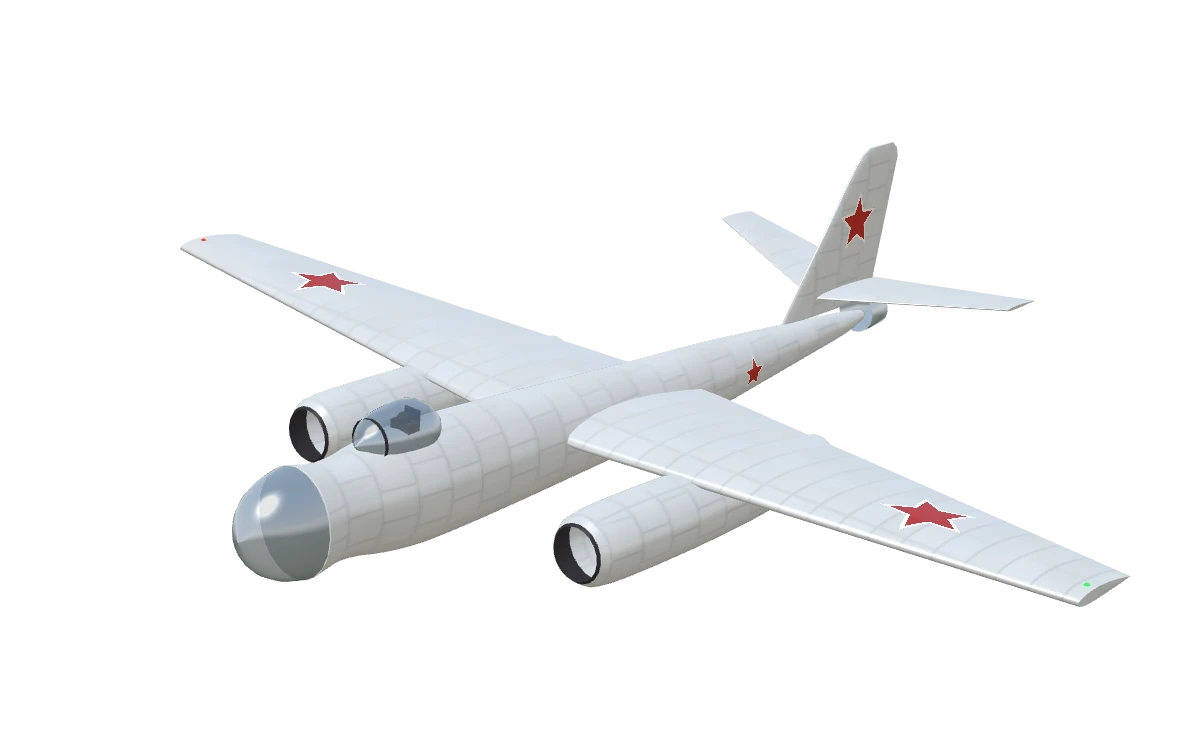
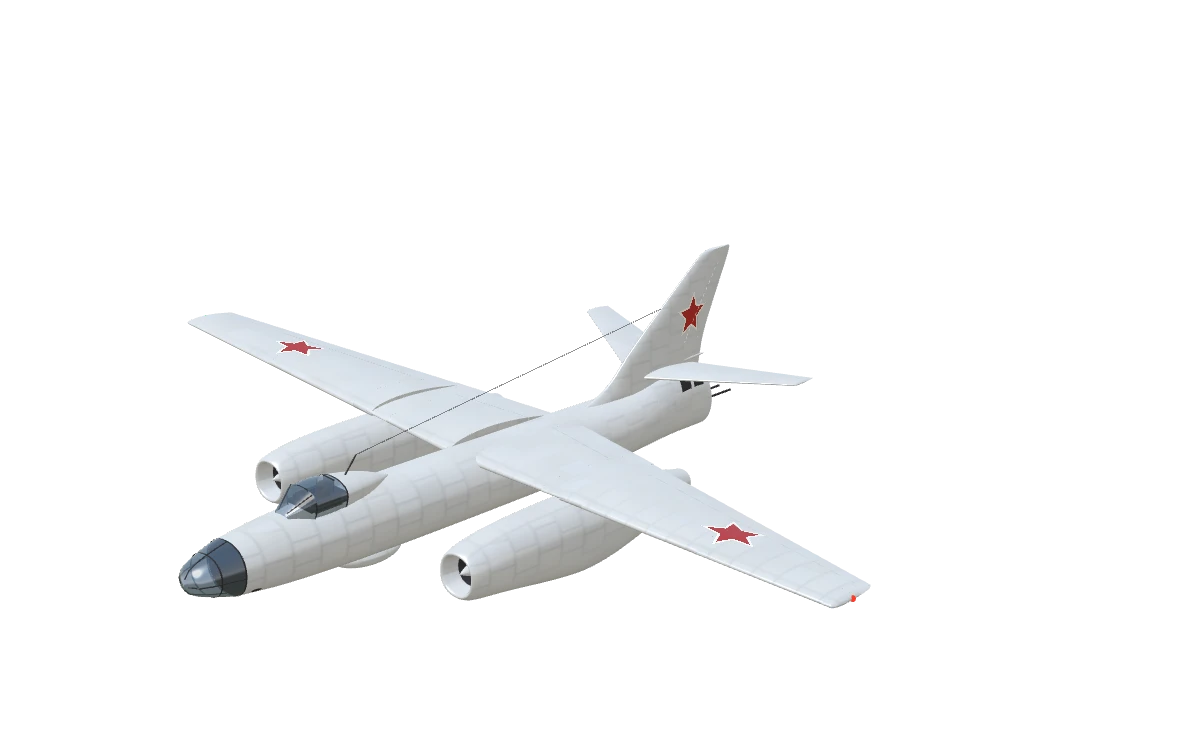
Il-28 ayrıntılı model: çizimden gövde, camlı nişancı burnu, derin VK-1 naselleri, ok kuyruk, nişancı kabini
- Karında radar kubbesi, anten direği ve teli, kabinde pencereler ve iki 23 mm top
- Ana takım öne katlanır (main.fore); iç ve dış flap, hareketli kumanda yüzeyleri, ışıklar
- glassFrames: camlı burun çerçeveleri ortak (Ar 234 de); kullanılmayan jetPod kalktı
- gearHeight çizime göre; ansiklopedi görselleri yenilendi; CLAUDE.md güncel

Changed region(s): [[0.1542, 0.184, 0.9558, 0.828]]

diff --git a/src/render/models.ts b/src/render/models.ts
@@ -21,7 +21,7 @@ type Geo = THREE.BufferGeometry;
 let DETAIL = 1;
 /** Yüksek ayrıntıda ek çözünürlük çarpanı (videosu çekilen uçaklarda daha çok kenar ve profil noktası). */
 let RES = 1;
-const HIRES: Record<string, number> = { mig15: 2.4, sabre: 1.6, f84: 1.6, p80: 1.6, me262: 1.6, meteor: 1.6, vampire: 1.6, he162: 1.6, ar234: 1.5, canberra: 1.5 };
+const HIRES: Record<string, number> = { mig15: 2.4, sabre: 1.6, f84: 1.6, p80: 1.6, me262: 1.6, meteor: 1.6, vampire: 1.6, he162: 1.6, ar234: 1.5, canberra: 1.5, il28: 1.5 };
 /** Dönel parçaların kenar sayısı ayrıntıya göre. */
 const sg = (n: number) => (DETAIL ? Math.round(n * 2.25 * RES) : n);
 
@@ -985,6 +985,23 @@ function sideIntake(x: number, secs: JetSec[], duct: JetSec[], rake: number, z0:
 }
 
 /**
+ * Camlı burnun çerçeveleri: yüzeyde boyuna ince çubuklar (zs istasyonları boyunca; yanlarda, üstte, altta) ve enine halkalar.
+ */
+function glassFrames(g: JetHull, zs: number[], bands: number[]): Geo[] {
+  const line = (a: number, sd: number) => zs.slice(1).map((z, i) => {
+    const p = g.pt(zs[i], a, 0.006, sd);
+    const q = g.pt(z, a, 0.006, sd);
+    return tag(rod(new THREE.Vector3(...p), new THREE.Vector3(...q), 0.014, 4), 'dark');
+  });
+  const band = (z: number) => {
+    const q = g.at(z);
+    const grow = (zz: number): JetSec => [zz, q[1] + 0.01, q[2] + 0.01, q[3] - 0.01, q[4]];
+    return tag(new JetHull([grow(z + 0.02), grow(z - 0.02)], 2.2, false).geo(14), 'dark');
+  };
+  return [...bands.map(band), ...line(0, 1), ...line(0, -1), ...line(Math.PI / 2, 1), ...line(-Math.PI / 2, 1)];
+}
+
+/**
  * Damla kanopi: öndeki köşeli ön cam, sürgülü kapağın kavisli camı, arkasında gövdeye inen metal bitiş. Çerçeveler
  * (ön cam dikmeleri ve kavisi, kapakta verilen z'ler) koyu, cam kesitinin biraz dışında. Pilot ve gösterge paneli
  * cached()'te canopySink'teki kayda göre yerleşir.
@@ -1024,8 +1041,8 @@ function gearDoor(x: number, yTop: number, yBot: number, z: number, w: number, r
 }
 
 interface JetGearOpts {
-  /** Ana bacak: x, z, üst ucu (menteşe) y, aks y, tekerlek yarıçapı ve genişliği, tekerleğin bacağa göre içe kayması; out: dışa katlanır. */
-  main: { out?: boolean; x: number; z: number; top: number; axle: number; rw: number; tw: number; dx: number; door: { dx: number; top: number; bot: number; w: number; r: number } };
+  /** Ana bacak: x, z, üst ucu (menteşe) y, aks y, tekerlek yarıçapı ve genişliği, tekerleğin bacağa göre içe kayması; out: dışa, fore: öne katlanır. */
+  main: { out?: boolean; fore?: boolean; x: number; z: number; top: number; axle: number; rw: number; tw: number; dx: number; door: { dx: number; top: number; bot: number; w: number; r: number } };
   /** Burun bacağı: menteşe (üst uç) y ve z, aks y ve z, tekerlek; öne bakan küçük kapak (varsa). */
   nose: { topY: number; topZ: number; axle: number; z: number; rw: number; tw: number; twin?: number; door?: { top: number; bot: number; w: number } };
   /** Burun takımı yuvasının boyuna iki kapağı: menteşe x'i ve y'si, z aralığı, yükseklik. */
@@ -1054,7 +1071,7 @@ function jetGear(o: JetGearOpts): Geo[] {
       ...wheelParts(m.rw, m.tw, x - s * m.dx, m.axle, m.z),
     ];
     const door = gearDoor(x + s * m.door.dx, m.door.top, m.door.bot, m.z, m.door.w, m.door.r);
-    out.push(...joint(s > 0 ? 'takimL' : 'takimR', [x, m.top, m.z], [...parts.map((g) => tag(g, 'dark')), door], false, [0, 0, m.out ? -1 : 1]));
+    out.push(...joint(s > 0 ? 'takimL' : 'takimR', [x, m.top, m.z], [...parts.map((g) => tag(g, 'dark')), door], false, m.fore ? [s, 0, 0] : [0, 0, m.out ? -1 : 1]));
   }
   // Burun bacağı: üst ucu arkada, tekerlek önde (eğik); menteşe ekseni −x: pozitif açı tekerleği arkaya toplar
   const top = v(0, n.topY, n.topZ);
@@ -1166,6 +1183,15 @@ function canberraGear(gh: number): Geo[] {
   });
 }
 
+/** Il-28 takımı: yüksek duruş; ana bacaklar nasel altından iner ve öne toplanır, büyük lastikler; uzun tek burun bacağı. */
+function beagleGear(gh: number): Geo[] {
+  return jetGear({
+    main: { fore: true, x: 3.21, z: -0.22, top: -1.05, axle: -gh + 0.62, rw: 0.62, tw: 0.26, dx: -0.3, door: { dx: -0.16, top: -1.2, bot: -1.72, w: 0.6, r: 0.12 } },
+    nose: { topY: -0.76, topZ: 6.7, axle: -gh + 0.37, z: 6.82, rw: 0.37, tw: 0.18, door: { top: -0.85, bot: -1.5, w: 0.45 } },
+    belly: { x: 0.3, y: -0.76, z0: 6.6, z1: 5.4, h: 0.3 },
+  });
+}
+
 /**
  * Kanopi: gövde üstünde yarı gömülü damla. Çerçeve: ön cam kenarında ince koyu bant; kabarcık olmayan (çerçeveli)
  * kanopide ortada ve arkada da birer bant.
@@ -1225,10 +1251,6 @@ function nacelle(x: number, y: number, zFront: number, len: number, r: number, b
     ? [[zFront + 0.45, 0], [zFront + 0.3, r * 0.3], [zFront, r * 0.6], [zFront - 0.1, r * 0.95], [zFront - len * 0.3, r], [zFront - len, r * 0.25]]
     : [[zFront + 0.45, 0], [zFront + 0.28, r * 0.42], [zFront, r * 0.78], [zFront - len * 0.3, r], [zFront - len, r * 0.25]];
   return body(prof, 8, { x, y, smooth: true });
-}
-
-function jetPod(x: number, y: number, zFront: number, len: number, r: number): Geo {
-  return body([[zFront, r * 0.75], [zFront - 0.3, r], [zFront - len * 0.6, r * 0.95], [zFront - len, r * 0.6]], 9, { x, y, smooth: true });
 }
 
 /** Sabit tekerlek kaportası (spat) + bacak. */
@@ -2475,32 +2497,13 @@ function defineModel(key: string): ModelDef {
           tag(body([[-2.0, 0.001], [-1.85, 0.05], [-1.6, 0.09], [-1.3, 0.08]], 8, { ...o, smooth: true }), 'dark'),
         ];
       };
-      // Camın dış yüzeyine oturan ince çerçeve: z aralığında a açısı boyunca kısa çubuklar
-      const glassLine = (a0: number, s0: number): Geo[] => {
-        const zs = [5.36, 5.28, 5.1, 4.8, 4.4, 3.9, 3.42];
-        return zs.slice(1).map((z, i) => {
-          const p = GL.pt(zs[i], a0, 0.006, s0);
-          const q = GL.pt(z, a0, 0.006, s0);
-          return tag(rod(new THREE.Vector3(...p), new THREE.Vector3(...q), 0.014, 4), 'dark');
-        });
-      };
-      const glassBand = (z: number) => {
-        const q = GL.at(z);
-        const grow = (zz: number): JetSec => [zz, q[1] + 0.01, q[2] + 0.01, q[3] - 0.01, q[4]];
-        return tag(new JetHull([grow(z + 0.02), grow(z - 0.02)], 2.2, false).geo(14), 'dark');
-      };
       canopySink.push({ z: 4.0, len: 1.6, h: 0.5, y: 0.12, w: 0.5, bubble: false });
       return {
         solids: [
           tag(GL.geo(14), 'glass'),
           H.geo(14),
           tag(H.disc(3.39, 1, 14), 'dark'),
-          glassBand(3.42),
-          glassBand(4.35),
-          ...glassLine(0, 1),
-          ...glassLine(0, -1),
-          ...glassLine(Math.PI / 2, 1),
-          ...glassLine(-Math.PI / 2, 1),
+          ...glassFrames(GL, [5.36, 5.28, 5.1, 4.8, 4.4, 3.9, 3.42], [3.42, 4.35]),
           // Tepedeki periskop
           tag(new THREE.CylinderGeometry(0.035, 0.05, 0.5, sg(6)).translate(0, 0.72, 4.46), 'dark'),
           tag(new THREE.SphereGeometry(0.05, sg(5), sg(3)).scale(1, 1.4, 1).translate(0, 0.99, 4.46), 'dark'),
@@ -2522,24 +2525,87 @@ function defineModel(key: string): ModelDef {
         ],
       };
     }
-    case 'il28':
+    case 'il28': {
+      // Il-28, boyutlar gerçek ölçülerde, biçim üç görünüş çiziminden. Silindirik gövde, ucunda camlı nişancı burnu,
+      // karnında radar kubbesi, önde damla kanopi ve anten direği. Kanat düz hücum kenarlı ve omuzda; altında derin
+      // VK-1 naselleri: yuvarlak giriş, ortada göbek ve dikey ayırıcı, altta ana takım bölmesi. Ok açılı kuyruk, arkada
+      // pencereli nişancı kabini ve iki 23 mm top.
+      const FRONT: JetSec[] = [[9.0, 0.01, -0.03, -0.07, -0.05], [8.95, 0.17, 0.1, -0.2, -0.05], [8.82, 0.42, 0.31, -0.33, -0.03], [8.18, 0.6, 0.54, -0.54, 0], [7.85, 0.67, 0.62, -0.62, 0]];
+      const GL = new JetHull(FRONT, 2.2);
+      const H = new JetHull([
+        [7.85, 0.67, 0.62, -0.62, 0], [6.42, 0.81, 0.82, -0.78, 0.02], [3.32, 0.87, 0.88, -0.88, 0], [-3.44, 0.87, 0.82, -0.88, -0.03], [-5.27, 0.8, 0.8, -0.81, -0.05], [-6.82, 0.56, 1.08, -0.78, -0.1],
+        [-8.2, 0.52, 1.14, -0.8, -0.1], [-8.42, 0.48, 0.5, -0.8, -0.14], [-8.6, 0.3, 0.3, -0.56, -0.12], [-8.66, 0.04, 0.0, -0.22, -0.11],
+      ], 2.2);
+      const Wi: WingOpts = { x0: 0.4, z: 0.93, root: 3.85, y: 0.66, tipX: 3.4, tip: 3.2, sweep: 0, dihedral: 2, t: 0.52 };
+      const W: WingOpts = { x0: 3.9, z: 0.93, root: 3.07, y: 0.77, tipX: 10.72, tip: 1.5, sweep: 0, dihedral: 2, t: 0.4 };
+      const T: WingOpts = { x0: 0.26, z: -5.55, root: 2.04, y: 1.24, tipX: 3.6, tip: 0.89, sweep: 2.04, dihedral: 6, t: 0.2 };
+      const tipY = W.y + (W.tipX - W.x0) * tanD(W.dihedral);
+      const NX = 3.21;
+      const pod = new JetHull([
+        [3.7, 0.38, 0.2, -0.56, -0.18], [4.1, 0.42, 0.24, -0.6, -0.18], [4.17, 0.47, 0.3, -0.66, -0.18], [4.14, 0.52, 0.36, -0.72, -0.18], [3.9, 0.58, 0.46, -0.82, -0.18], [2.97, 0.66, 0.62, -0.92, -0.15],
+        [0.93, 0.7, 0.68, -1.28, -0.1], [-0.3, 0.7, 0.64, -1.36, -0.1], [-2.03, 0.6, 0.52, -0.98, -0.1], [-3.6, 0.31, 0.17, -0.47, -0.15], [-3.69, 0.3, 0.16, -0.46, -0.15],
+      ], 2.25);
+      const duct = new JetHull([[3.1, 0.35, 0.16, -0.52, -0.18], [3.72, 0.375, 0.195, -0.555, -0.18]], 2.1, false);
+      const pipe = new JetHull([[-3.68, 0.27, 0.13, -0.43, -0.15], [-3.2, 0.25, 0.11, -0.41, -0.15]], 2.05, false);
+      const nacelle = (sd: number): Geo[] => {
+        const x = sd * NX;
+        return [
+          pod.geo(13).translate(x, 0, 0),
+          tag(duct.geo(12).translate(x, 0, 0), 'dark'),
+          tag(duct.disc(3.1, 1, 12).translate(x, 0, 0), 'dark'),
+          body([[4.05, 0.001], [3.9, 0.08], [3.6, 0.17], [3.1, 0.19]], 8, { x, y: -0.18, smooth: true }),
+          new THREE.BoxGeometry(0.05, 0.72, 0.5).translate(x, -0.18, 3.4),
+          tag(pipe.geo(12).translate(x, 0, 0), 'dark'),
+          tag(pipe.disc(-3.2, -1, 12).translate(x, 0, 0), 'dark'),
+          tag(new THREE.ConeGeometry(0.12, 0.3, sg(8)).rotateX(-Math.PI / 2).translate(x, -0.15, -3.35), 'dark'),
+        ];
+      };
       return {
         solids: [
-          glassNose(7.9, 0.85, 1.2, 1.15),
-          fuselage({ noseZ: 7.9, tailZ: -7.8, r: 0.95, sy: 1.15, noseR: 0.9, peak: 0.2, rise: 0.3 }),
-          canopy(5.6, 2.0, 0.55, 1.0, 0.55, true),
-          // Kuyruk taret kabini
-          tag(body([[-7.6, 0.42], [-8.2, 0.38], [-8.6, 0]], 7, { y: 0.1 + tailLift(-7.9) }), 'glass'),
-          ...wing({ x0: 1.0, z: 2.2, root: 4.0, y: 0.2, tipX: 10.72, tip: 1.6, sweep: 0.8, dihedral: 2, t: 0.5 }),
-          // Kanat altında, hücum kenarının önüne uzanan motor naselleri
-          ...mirror(3.25, (x) => jetPod(x, -0.35, 4.6, 6.6, 0.7)),
-          ...mirror(3.25, (x) => tag(body([[4.65, 0.48], [4.5, 0.58], [4.1, 0.62]], 9, { x, y: -0.35 }), 'dark')),
-          // Ok açılı kuyruk
-          ...fins({ y0: 0.7, z0: -5.0, h: 3.0, root: 3.0, tip: 1.3, sweep: 2.2, t: 0.18 }),
-          ...wing({ x0: 0.1, z: -6.0, root: 2.2, y: 0.8, tipX: 3.6, tip: 1.0, sweep: 1.5, dihedral: 7, t: 0.15 }),
+          tag(GL.geo(14), 'glass'),
+          H.geo(14),
+          tag(H.disc(7.85, 1, 14), 'dark'),
+          ...glassFrames(GL, [8.96, 8.84, 8.6, 8.3, 7.87], [7.87, 8.4]),
+          ...[1, -1].map((sd) => portAt(sd * H.sideX(7.5, -0.42), -0.42, 7.5, 0.035, 0.16)),
+          // Karındaki radar kubbesi
+          new THREE.SphereGeometry(1, sg(12), sg(7)).scale(0.56, 0.3, 1.0).translate(0, -0.84, 3.9),
+          tag(H.patch(1, 5.75, 4.98, Math.PI / 2 - 0.45, Math.PI / 2 + 0.45, 0.006), 'dark'),
+          ...jetCanopy({
+            screen: [[6.39, 0.22, 0.85, 0.4, 0.8], [5.83, 0.5, 1.29, 0.4, 0.95]],
+            glass: [[5.83, 0.5, 1.29, 0.4, 0.95], [5.44, 0.55, 1.35, 0.4, 1.0], [4.94, 0.52, 1.29, 0.4, 1.0]],
+            aft: [[4.96, 0.53, 1.3, 0.4, 1.0], [4.03, 0.38, 1.16, 0.4, 0.98], [3.3, 0.02, 0.89, 0.6, 0.86]],
+            frames: [5.83, 4.96],
+            posts: [[0.14, 0.86, 6.36], [0.36, 1.24, 5.85]],
+            pilot: { z: 5.35, len: 1.6, h: 0.45, y: 0.98, w: 0.5 },
+          }),
+          // Anten direği ve kuyruğa uzanan tel
+          tag(rod(new THREE.Vector3(0, 1.2, 4.62), new THREE.Vector3(0, 1.65, 4.28), 0.018, 4), 'dark'),
+          tag(rod(new THREE.Vector3(0, 1.65, 4.28), new THREE.Vector3(0, 2.95, -6.4), 0.006, 3), 'dark'),
+          // İç kanat ve dış kanat ayrı flaplı; uç köşeleri yuvarlak
+          ...controlWing(Wi, 0.72, [[0, 0.75, 'flap'], [0.75, 1, null]]),
+          ...controlWing(W, 0.78, [[-0.1, 0, null], [0, 0.48, 'flapD'], [0.48, 0.49, null], [0.49, 0.97, 'aileron'], [0.97, 1, null]], 1.2),
+          ...nacelle(1),
+          ...nacelle(-1),
+          ...controlWing(T, 0.66, [[0, 0.96, 'elevator'], [0.96, 1, null]], 1),
+          ...jetFin([[0.82, -3.58, 4.64], [1.16, -4.42, 3.83], [1.86, -5.06, 3.25], [2.95, -6.35, 2.35], [3.8, -7.38, 1.64], [4.19, -7.87, 1.27], [4.26, -8.16, 0.91]], 0.3, 0.72, 2, 4),
+          body([[-4.92, 0.01], [-5.4, 0.1], [-7.6, 0.1], [-8.44, 0.01]], 8, { y: 1.24, sy: 0.8, smooth: true }),
+          // Arkadaki nişancı kabini pencereleri ve iki top
+          ...[1, -1].flatMap((sd) => [
+            tag(H.patch(sd, -7.0, -7.42, 0.55, 1.0, 0.006), 'dark'),
+            tag(H.patch(sd, -7.55, -7.97, 0.55, 1.0, 0.006), 'dark'),
+            tag(rod(new THREE.Vector3(sd * 0.2, -0.08, -8.4), new THREE.Vector3(sd * 0.2, -0.08, -9.6), 0.03, 6), 'dark'),
+          ]),
         ],
         props: [],
+        markZ: -3.4,
+        lights: [
+          { p: [W.tipX + 0.1, tipY, W.z - W.tip * 0.45], kind: 'red' },
+          { p: [-W.tipX - 0.1, tipY, W.z - W.tip * 0.45], kind: 'green' },
+          { p: [0, 3.0, -8.72], kind: 'white' },
+          { p: [2.0, 0.25, 0.6], kind: 'landing' },
+        ],
       };
+    }
     // ================================================================ Sonraki nesil jetler (yer tutucu)
     case 'jetDelta':
       return {
@@ -2811,6 +2877,7 @@ function landingGear(probe: Probe, bb: THREE.Box3, spec: AircraftSpec | undefine
   if (kind === 'he162') return salamanderGear(gearHeight(spec));
   if (kind === 'ar234') return blitzGear(gearHeight(spec));
   if (kind === 'canberra') return canberraGear(gearHeight(spec));
+  if (kind === 'il28') return beagleGear(gearHeight(spec));
   const gh = spec.span > 25 ? 3.4 : spec.engines > 1 ? 2.6 : 1.9;
   const half = bb.max.x;
   const tricycle = !spec.tailDragger;

diff --git a/src/sim/aircraft/flightModel.ts b/src/sim/aircraft/flightModel.ts
@@ -83,6 +83,7 @@ export function gearHeight(spec: AircraftSpec): number {
   if (spec.id === 'he162') return 1.13;
   if (spec.id === 'ar234') return 1.45;
   if (spec.id === 'canberra') return 1.6;
+  if (spec.id === 'il28') return 2.48;
   return spec.span > 25 ? 3.4 : spec.engines > 1 ? 2.6 : 1.9;
 }
 

diff --git a/CLAUDE.md b/CLAUDE.md
@@ -102,11 +102,11 @@ Yerel yönetici anahtarı `.dev.vars` (git dışı).
     - Park eden uçaklar `placeParked`: en yeni yarısı hangar ağzı, T2, çadır hangar, sığınak ve siperlere, kalanı
       aprona. Tür başına InstancedMesh (`models.ts` `parkedParts`).
   - `models.ts`: kodla üretilen parametrik uçaklar. Modelde `+x` sol kanat (burun `+z`, üst `+y`).
-    - F-84 ve F-86 üç görünüş çiziminden kurulur (ölçüler px/m ile çizimden okunur, fotoğrafla karşılaştırılır):
-      `JetHull` kesit listesinden gövde, kanopi ve kanal yapar; `jetCanopy`, `jetFin`, `jetGear`. Yeni uçak için önce
-      Wikimedia Commons'ta "<uçak> 3-view line drawing" ara. Sim'deki `gearHeight` takımla uyuşmalı.
-    - Hareketli parçalar eklemdir; şimdilik MiG-15, F-84 ve F-86'da. Bu uçakları değiştirince ansiklopedi görsellerini
-      de yeniden üret.
+    - Araştırma ağacındaki bütün jetler üç görünüş çiziminden kurulur (ölçüler px/m ile çizimden okunur, fotoğrafla
+      karşılaştırılır): `JetHull` kesit listesinden gövde, kanopi ve kanal yapar; `jetCanopy`, `jetFin`, `jetGear`,
+      `sideIntake`, `glassFrames`. Yeni uçak için önce Wikimedia Commons'ta "<uçak> 3-view" ara. Sim'deki `gearHeight`
+      takımla uyuşmalı.
+    - Hareketli parçalar eklemdir; şimdilik jetlerde. Modeli değiştirince ansiklopedi görsellerini de yeniden üret.
       - Kanat ve kuyruk `controlWing` / `controlFin` ile kurulur: ana yüzey ve kumanda yüzeyi aynı profilden kesilir
         (`airfoilPart`), aralarında yalnız menteşe çizgisi kalır.
       - Gövde (kapalı hava girişi ve egzoz) `migFuselage`, takım (içe ve öne katlanır, gövdeye girer) `migGear`.
